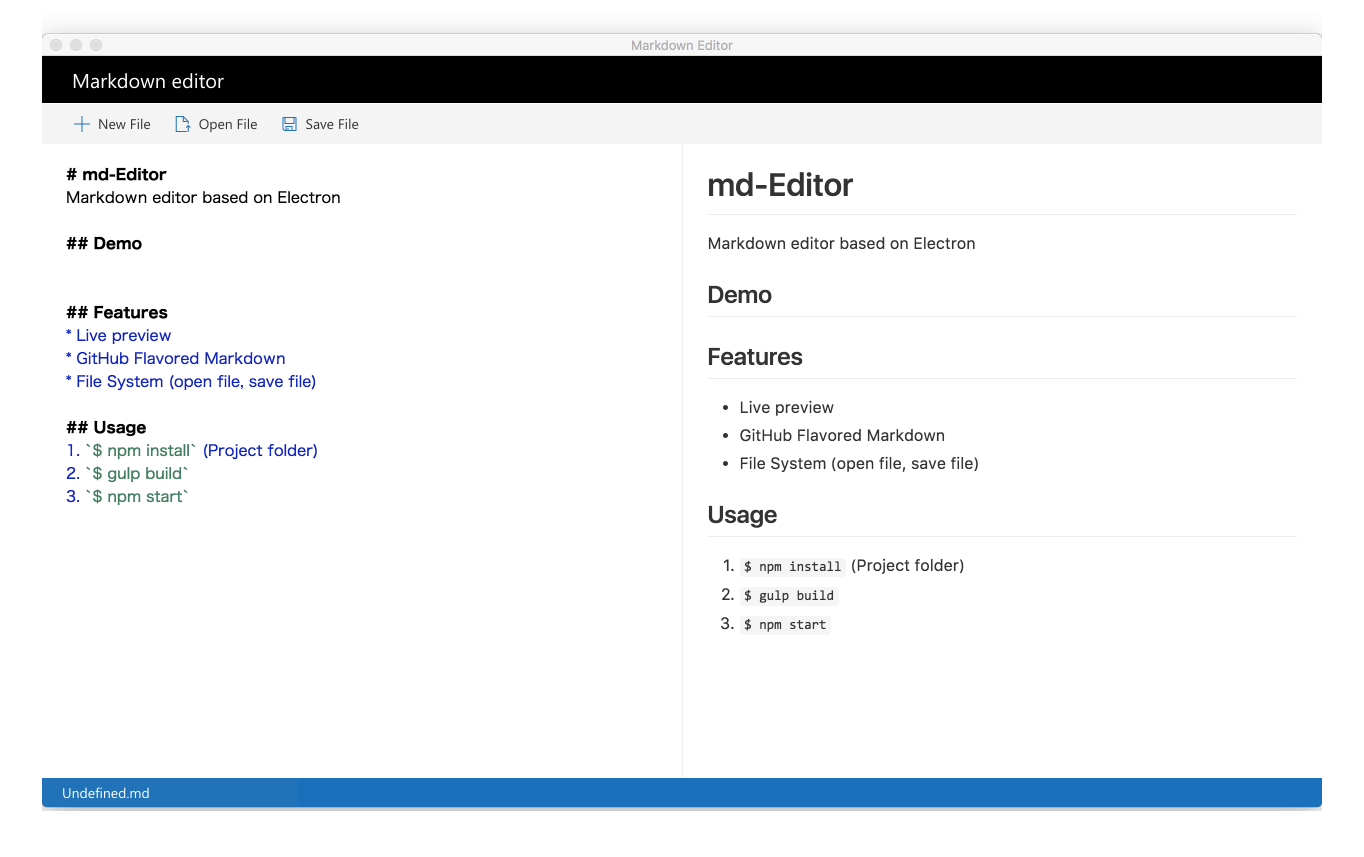
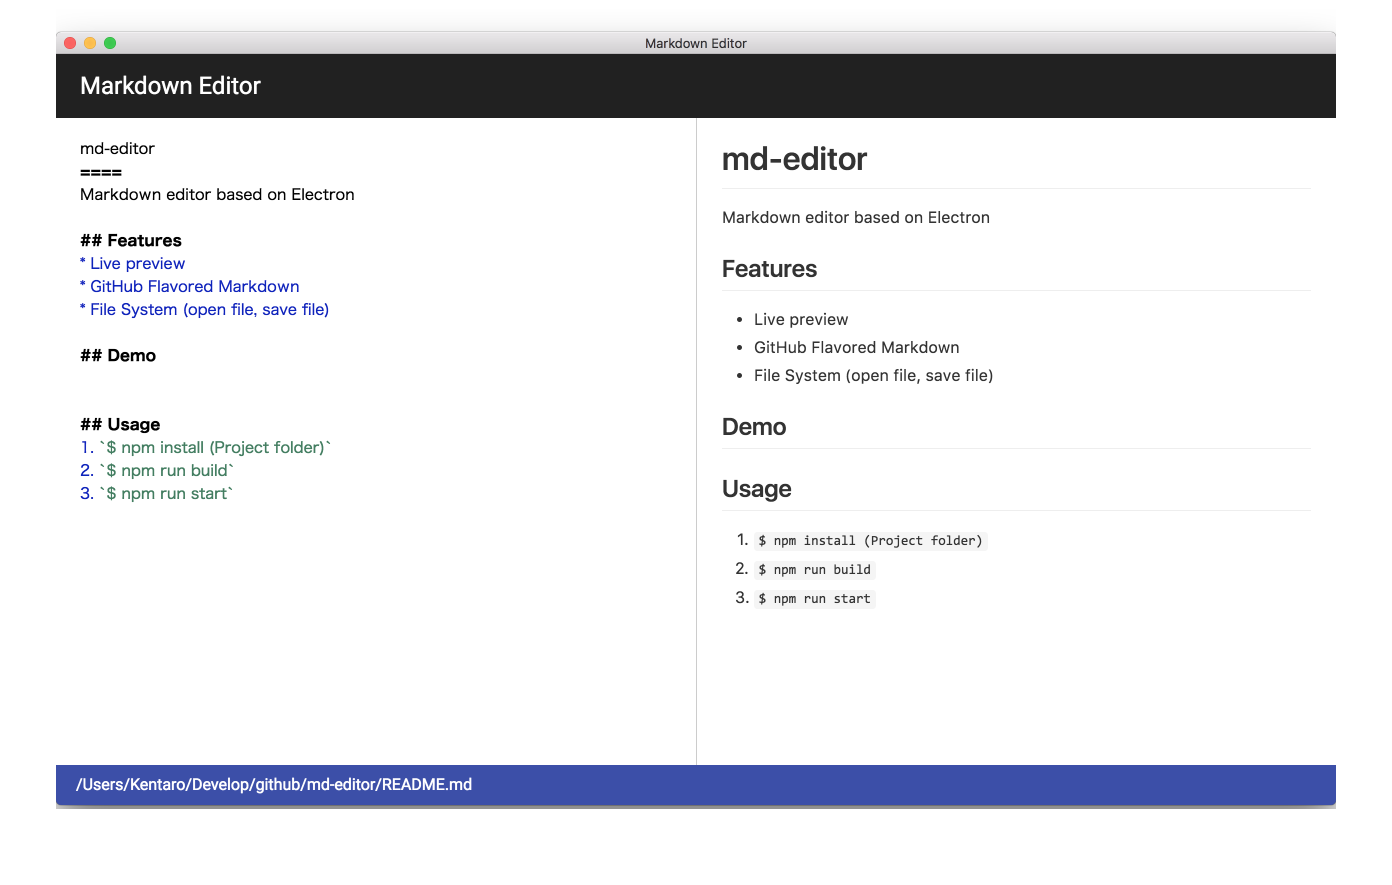
Add material ui.

Changed region(s): [[0.0308, 0.0303, 0.9853, 0.7281], [0.0308, 0.8495, 0.9853, 0.9708]]

diff --git a/components/app.js b/components/app.js
@@ -5,10 +5,19 @@ import Header from '../components/header';
 import Footer from '../components/footer';
 import Editor from '../components/editor';
 import Preview from '../components/preview';
-import { Layer } from 'office-ui-fabric-react/lib';
 import markdown from 'codemirror/mode/markdown/markdown';
 import SplitPane from 'react-split-pane';
 import * as Actions from '../actions/index';
+import MuiThemeProvider from 'material-ui/styles/MuiThemeProvider';
+import getMuiTheme from 'material-ui/styles/getMuiTheme';
+import { darkBlack, indigo500 } from 'material-ui/styles/colors';
+
+const muiTheme = getMuiTheme({
+  palette: {
+    primary1Color: darkBlack,
+    accent2Color: indigo500,
+  },
+});
 
 class App extends Component {
 
@@ -22,16 +31,18 @@ class App extends Component {
 
   render() {
     return (
-      <div id="content">
-        <Header />
-        <div id="main">
-          <SplitPane split="vertical" defaultSize="50%">
-            <Editor onChange={this.onChange} text={this.props.text} defaultValue={this.props.text} />
-            <Preview markdown={this.props.text} />
-          </SplitPane>
+      <MuiThemeProvider muiTheme={muiTheme}>
+        <div id="content">
+          <Header />
+          <div id="main">
+            <SplitPane split="vertical" defaultSize="50%">
+              <Editor onChange={this.onChange} text={this.props.text} defaultValue={this.props.text} />
+              <Preview markdown={this.props.text} />
+            </SplitPane>
+          </div>
+          <Footer path={this.props.path} />
         </div>
-        <Footer path={this.props.path} />
-      </div>
+      </MuiThemeProvider>
     );
   }
 

diff --git a/style.css b/style.css
@@ -1,8 +1,8 @@
 #main {
     width: 100%;
     position: absolute;
-    top: 48px;
-    bottom: 29px;
+    top: 64px;
+    bottom: 40px;
 }
 
 body {
@@ -10,20 +10,11 @@ body {
     font-family: Hiragino Sans, "ヒラギノ角ゴシック", Hiragino Kaku Gothic ProN, "ヒラギノ角ゴ ProN W3";
 }
 
-/* ヘッダー・フッター共通 */
-.ms-Layer {
-    height: 48px;
-    display: block;
-}
-
 /* ヘッダー */
-#header, .ms-CommandBar {
+#header {
     position: fixed !important;
     width: 100%;
     z-index: 1;
-}
-
-#header {
     font-size: 20px;
     padding: 10px 30px;
 }
@@ -33,7 +24,12 @@ body {
     position: fixed;
     bottom: 0;
     width: 100%;
-    padding: 5px 20px;
+    height: 40px !important;
+}
+
+#footer span {
+    font-size: 16px !important;
+    padding-left: 20px;
 }
 
 /**

diff --git a/components/footer.js b/components/footer.js
@@ -1,5 +1,5 @@
 import React, { Component, PropTypes } from 'react';
-import { Layer } from 'office-ui-fabric-react/lib';
+import { Toolbar, ToolbarGroup, ToolbarTitle } from 'material-ui/Toolbar';
 
 class Footer extends Component {
 
@@ -9,11 +9,11 @@ class Footer extends Component {
 
   render() {
     return (
-      <Layer>
-        <div id="footer" className="ms-bgColor-themeDarkAlt ms-fontColor-white">
-          {this.props.path}
-        </div>
-      </Layer>
+      <Toolbar id='footer'>
+        <ToolbarGroup firstChild={true}>
+          <ToolbarTitle style={{color: '#fff'}} text={this.props.path} />
+        </ToolbarGroup>
+      </Toolbar>
     );
   }
 }

diff --git a/components/header.js b/components/header.js
@@ -1,12 +1,14 @@
 import React, { Component } from 'react';
-import { Layer } from 'office-ui-fabric-react/lib';
+import AppBar from 'material-ui/AppBar';
 
 class Header extends Component {
   render() {
     return (
-      <Layer>
-        <div id="header" className="ms-bgColor-black ms-fontColor-white">Markdown editor</div>
-      </Layer>
+      <AppBar
+        title="Markdown Editor"
+        showMenuIconButton={false}
+        zDepth={0}
+      />
     );
   }
 }

diff --git a/containers/app.js b/containers/app.js
@@ -4,10 +4,12 @@ import App from '../components/app';
 import { ipcRenderer } from 'electron';
 import { Provider } from 'react-redux';
 import configureStore from '../store/configure_store';
+import injectTapEventPlugin from 'react-tap-event-plugin';
 
+injectTapEventPlugin();
 const store = configureStore();
 
-const app = ReactDOM.render(
+ReactDOM.render(
   <Provider store={store}>
     <App />
   </Provider>,

diff --git a/README.md b/README.md
@@ -1,15 +1,16 @@
-# md-Editor
+md-editor
+====
 Markdown editor based on Electron
-
-## Demo
-![](./md-editor.png)
 
 ## Features
 * Live preview
 * GitHub Flavored Markdown
 * File System (open file, save file)
 
+## Demo
+![](./md-editor.png)
+
 ## Usage
-1. `$ npm install` (Project folder)
-2. `$ npm run-script build`
-3. `$ npm run-script start`
+1. `$ npm install (Project folder)`
+2. `$ npm run build`
+3. `$ npm run start`
